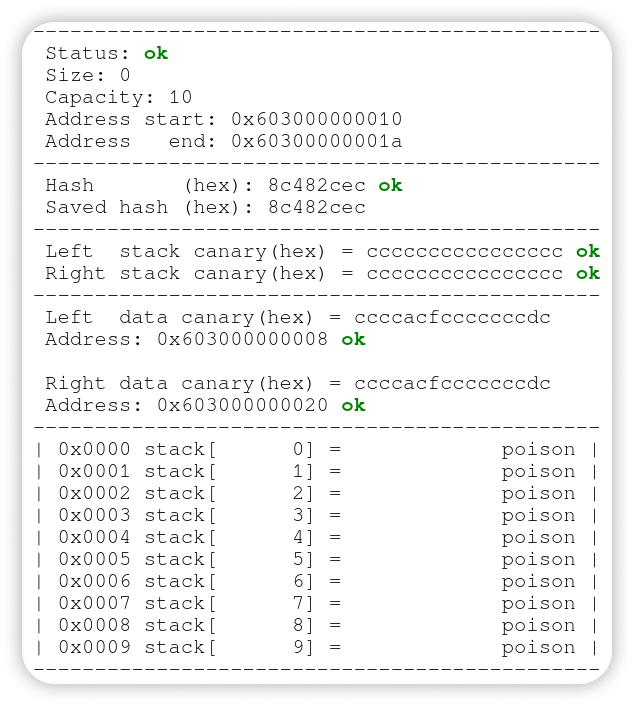
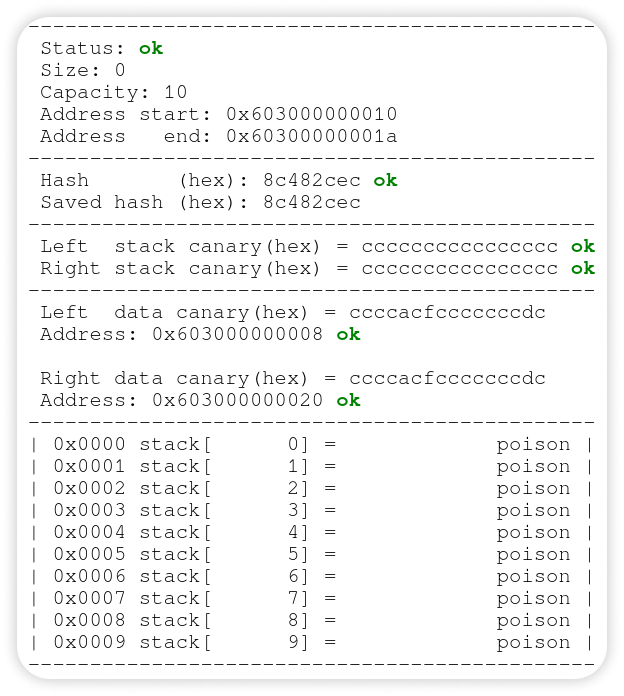
Write docs

diff --git a/src/include/stack.h b/src/include/stack.h
@@ -1,3 +1,10 @@
+/**
+ * @file 
+ * @brief  Stack implementation
+ * @author d3phys
+ * @date   03.10.2021
+ */
+
 #ifndef STACK_H_
 #define STACK_H_
 
@@ -6,7 +13,7 @@
 
 #define CANARY_PROTECT
 #define HASH_PROTECT
-//#define UNPROTECT
+/* #define UNPROTECT */
 
 typedef char item_t; 
 
@@ -19,33 +26,43 @@ typedef uint32_t hash_t;
 #endif /* HASH_PROTECT */
 
 
+/**
+ * @brief Stack structure
+ * @author d3phys
+ */
 struct stack_t {
 
 #ifdef CANARY_PROTECT
-        canary_t left_canary = 0;
+        canary_t left_canary = 0;        /**< Canary protection from left */
 #endif /* CANARY_PROTECT */
 
-        item_t *items         = nullptr;
-        size_t capacity       = 0;
-        size_t size           = 0;
+        item_t *items         = nullptr; /**< Stack data     */
+        size_t capacity       = 0;       /**< Stack capacity */
+        size_t size           = 0;       /**< Stack size     */
 
 #ifdef HASH_PROTECT
-        hash_t hash           = 0;
+        hash_t hash           = 0;       /**< Hash protection */
 #endif /* HASH_PROTECT */
 
 #ifdef CANARY_PROTECT
-        canary_t right_canary = 0;
+        canary_t right_canary = 0;       /**< Canary protection from right */
 #endif /* CANARY_PROTECT */
 
 };
 
+/**
+ * @brief Stack error codes 
+ */
 enum stack_error_t {
         STK_BAD_ALLOC = 0xBADA110C, 
-        STK_OVERFLOW  = 0x0000F11, 
+        STK_OVERFLOW  = 0x0000F112, 
         STK_INVALID   = 0xABADBABE,
         STK_EMPTY_POP = 0x00000E11,
 };
 
+/**
+ * @brief Verification error flags 
+ */
 enum invariant_err_t {
         INVALID_CAPACITY    = 1,
         INVALID_SIZE        = 1 << 1,
@@ -61,11 +78,67 @@ enum invariant_err_t {
                 dump_stack(_stk);    \
         } while (0)
 
+/**
+ * @brief Dumps stack
+ *
+ * @param stk Stack to dump
+ *
+ * It prints stack dump to a log file. 
+ * There are a lot of useful information inside.
+ */
 void dump_stack(stack_t *const stk);
+
+/**
+ * @brief Stack constructor
+ *
+ * @param[out] stk      Stack to create
+ * @param      capacity Initial stack capacity
+ * @param[out] error    Error proceeded
+ *
+ * It is the manual way to create stack. Do not use other ways. 
+ */
 void construct_stack(stack_t *const stk, size_t capacity, int *const error = nullptr);
+
+/**
+ * @brief Stack destructor 
+ *
+ * @param      stk      Stack to destroy 
+ * @param[out] error    Error proceeded
+ *
+ * It is the manual way to destroy stack. Do not use other ways. 
+ */
 void destruct_stack(stack_t *const stk, int *const error = nullptr);
+
+/**
+ * @brief Stack push
+ *
+ * @param stk        Stack push to
+ * @param item       Item to push
+ * @param[out] error Error proceeded
+ */
 void push_stack(stack_t *const stk, const item_t item, int *const error = nullptr);
+
+/**
+ * @brief Stack pop 
+ *
+ * @param stk        Stack pop from 
+ * @param[out] error Error proceeded
+ *
+ * @return 'Popped' item
+ */
 item_t pop_stack(stack_t *const stack, int *const error = nullptr);
+
+/**
+ * @brief Stack push
+ *
+ * @param stk Stack to verify 
+ *
+ * Main stack verifier. Use it to verify damaged stack.
+ *
+ * @return 
+ * - 0 if stack is valid 
+ * - non-zero otherwise (check invariant_err_t)
+ */
 int verify_stack(stack_t *const stk);
 
 #endif /* STACK_H_ */

diff --git a/src/hash.cpp b/src/hash.cpp
@@ -1,24 +1,5 @@
 #include "include/hash.h"
 
-/*
- * @brief Murmur2 algorithm hash function.
- *
- * @param key     Hash key pointer
- * @param length  Key length
- * @param seed    Random seed
- *
- * This hash function was originally created by Austin Appleby.
- * It is fast and simple hash algorithm.
- *
- * There are a few assumptions about how your machine behaves:
- * 1. We can read a 4-byte value from any address without crashing
- * 2. sizeof(int) = 4
- *
- * Also there are a few limitations:
- * 1. It will not work incrementally.
- * 2. It will not produce the same results on little-endian and big-endian
- *    machines.
- */
 unsigned int murmur_hash(const void *key, int len, unsigned int seed)
 {
         const unsigned int mp = 0x5bd1e995;
@@ -28,7 +9,7 @@ unsigned int murmur_hash(const void *key, int len, unsigned int seed)
 
         const unsigned char *data = (const unsigned char *)key;
 
-        while(len >= 4) {
+        while (len >= 4) {
                 unsigned int k = *(unsigned int *)data;
 
                 k *= mp; 
@@ -39,10 +20,10 @@ unsigned int murmur_hash(const void *key, int len, unsigned int seed)
                 hash ^= k;
 
                 data += 4;
-                len -= 4;
+                len  -= 4;
         }
 
-        switch(len) {
+        switch (len) {
         case 3: 
                 hash ^= data[2] << 16;
         case 2: 

diff --git a/src/stack.cpp b/src/stack.cpp
@@ -3,7 +3,6 @@
 #include <assert.h>
 #include <stdlib.h>
 #include <limits.h>
-#include <sys/cdefs.h>
 #include <errno.h>
 #include <string.h>
 #include "include/stack.h"
@@ -77,7 +76,7 @@ $       (memset(items + stk->size, FILL_BYTE, cap - stk->size * sizeof(item_t));
 
 #ifdef CANARY_PROTECT
         *right_canary(items, capacity) = CANARY ^ (size_t)items;
-        *left_canary(items, capacity)  = CANARY ^ (size_t)items;
+        *left_canary (items, capacity) = CANARY ^ (size_t)items;
 #endif
 
         return items;
@@ -320,7 +319,7 @@ static inline const item_t get_poison(const int byte)
         return poison;
 }
 
-static inline int expandable(const stack_t *const stk) 
+static inline int expandable(const stack_t *const stk)
 {
         return stk->capacity == stk->size;
 }
@@ -391,7 +390,7 @@ void dump_stack(stack_t *const stk)
                 "<font color=\"red\"><b>error</b></font>");
         log_buf("----------------------------------------------\n");
 
-        log_buf(" Left data canary(hex) = %lx\n Address: 0x%lx %s\n", 
+        log_buf(" Left  data canary(hex) = %lx\n Address: 0x%lx %s\n", 
                 *left_canary(stk->items, stk->capacity), 
                 (size_t)left_canary(stk->items, stk->capacity), 
                 *left_canary (stk->items, 

diff --git a/src/include/hash.h b/src/include/hash.h
@@ -1,6 +1,32 @@
+/**
+ * @file
+ * @brief  Hash implementations
+ * @author d3phys
+ * @date   03.10.2021
+ */
+
 #ifndef HASH_H
 #define HASH_H
 
+/**
+ * @brief Murmur2 algorithm hash function.
+ *
+ * @param key     Hash key pointer
+ * @param length  Key length
+ * @param seed    Random seed
+ *
+ * This hash function was originally created by Austin Appleby.
+ * It is fast and simple hash algorithm.
+ *
+ * There are a few assumptions about how your machine behaves:
+ * 1. We can read a 4-byte value from any address without crashing
+ * 2. sizeof(int) = 4
+ *
+ * Also there are a few limitations:
+ * 1. It will not work incrementally
+ * 2. It will not produce the same results on little-endian and big-endian
+ *    machines
+ */
 unsigned int murmur_hash(const void *key, int length, unsigned int seed);
 
 #endif /* HASH_H */

diff --git a/src/main.cpp b/src/main.cpp
@@ -20,7 +20,6 @@ $       (log("Hash: %x\n", murmur_hash(&key, sizeof(key), 123));)
 $       (log("Hash: %x\n", murmur_hash(&key, sizeof(key), 12));)
 $       (log("Hash: %x\n", murmur_hash(&key2, sizeof(key2), 123));)
 
-
 $       (construct_stack(&stk, 10);)
 $       (log_dump(&stk);)
 
@@ -43,8 +42,6 @@ $       (push_stack(&stk, 'f');)
 $       (log_dump(&stk);)
 $       (push_stack(&stk, 'f');) 
 $       (log_dump(&stk);)
-$       (push_stack(&stk, 'f');) 
-$       (stk.capacity = 321;)
 //$       (*((char *)stk.items + 4) = 32;);
 $       (log_dump(&stk);)
 $       (push_stack(&stk, 'f');) 
